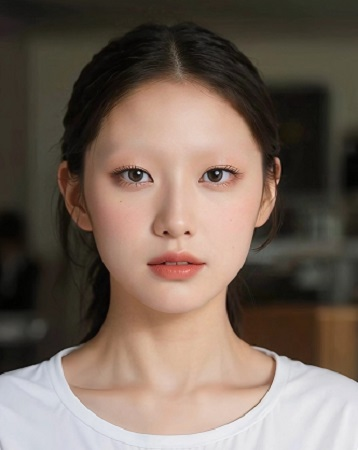
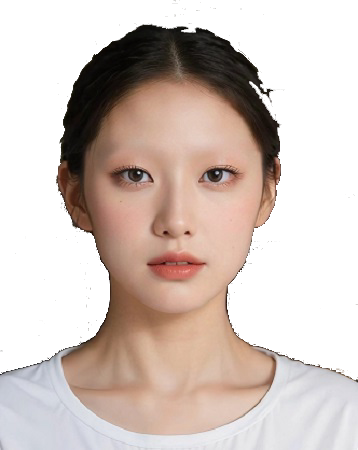
人脸照片背景修复与身份证照片一致

diff --git a/src/utils/id_card_filler.py b/src/utils/id_card_filler.py
@@ -5,6 +5,7 @@ from src.utils.resource_utils import resource_path
 
 class IDCardFiller:
     """身份证图片填充"""
+
     def __init__(self, template_path):
         """初始化身份证填充器"""
         # 使用 resource_path 处理模板路径
@@ -48,7 +49,8 @@ class IDCardFiller:
 
             if not os.path.exists(actual_face_path):
                 # 如果找不到文件，尝试直接使用 resources 目录下的文件
-                static_face_path = os.path.normpath(os.path.join("src/resources/images", os.path.basename(face_image_path)))
+                static_face_path = os.path.normpath(
+                    os.path.join("src/resources/images", os.path.basename(face_image_path)))
                 if os.path.exists(static_face_path):
                     actual_face_path = static_face_path
                     print(f"使用静态目录下的人脸图片: {actual_face_path}")
@@ -60,11 +62,18 @@ class IDCardFiller:
             face_img = Image.open(actual_face_path).convert("RGBA")
             # 调整人脸图片大小
             face_img = face_img.resize(face_size, Image.Resampling.LANCZOS)
-            # 将人脸图片粘贴到身份证上
-            image.paste(face_img, face_position)
-            print(f"成功添加人脸图片: {actual_face_path}")
 
+            # 创建一个与身份证图片相同大小的透明图层
+            overlay = Image.new('RGBA', image.size, (0, 0, 0, 0))
+            # 将人脸图片放到透明图层的正确位置
+            overlay.paste(face_img, face_position)
+
+            # 将透明图层与身份证图片合成
+            image = Image.alpha_composite(image, overlay)
+
+            print(f"成功添加人脸图片: {actual_face_path}")
             return image
+
         except Exception as e:
             print(f"添加人脸图片时出错: {e}")
             return image
